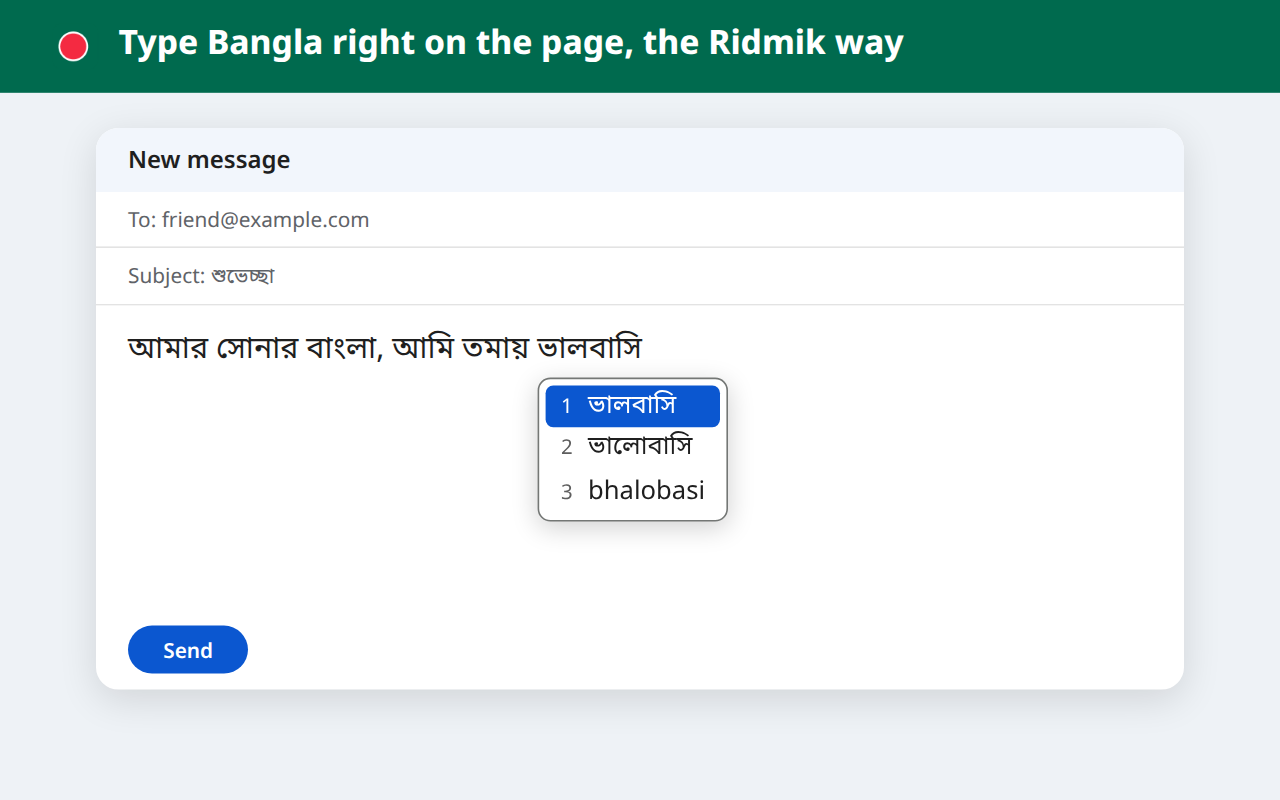
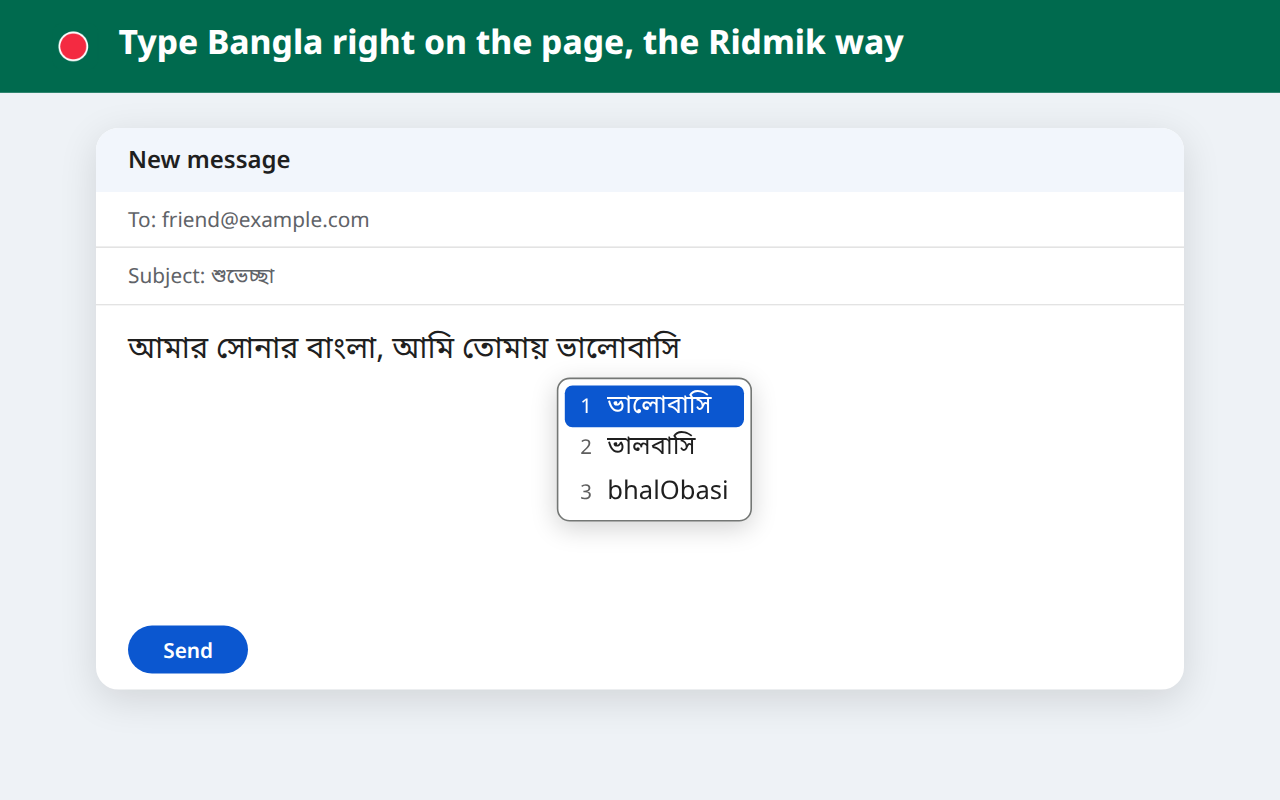
Fix misspelled Bangla in the typing screenshot and playground hint
তমায় ভালবাসি -> তোমায় ভালোবাসি (typed as tOmay bhalObasi)

Changed region(s): [[0.3438, 0.4062, 0.5938, 0.6562]]

diff --git a/site/index.html b/site/index.html
@@ -70,7 +70,7 @@
               <button type="button" id="toggle" class="toggle" aria-pressed="true" title="Ctrl+Shift+Space">বাংলা</button>
             </div>
             <label for="pad" class="sr">Playground: type phonetically to get Bangla</label>
-            <textarea id="pad" rows="5" spellcheck="false" autocomplete="off" placeholder="ami tomake bhalobashi"></textarea>
+            <textarea id="pad" rows="5" spellcheck="false" autocomplete="off" placeholder="ami tOmake bhalObasi"></textarea>
             <p class="play-foot">
               <span id="mode" role="status">Bangla typing is on</span>
               <span id="hint" class="hint">Try <kbd>korrmo</kbd>, <kbd>kormo</kbd>, then ↓ and Space</span>
@@ -129,7 +129,7 @@
           <div class="shots">
             <figure>
               <img src="/lekho/img/screenshot-1-typing.png" width="1280" height="800" loading="lazy"
-                alt="Typing Bangla in an email: the suggestion list shows ভালবাসি first, then ভালোবাসি and the English word" />
+                alt="Typing আমার সোনার বাংলা, আমি তোমায় ভালোবাসি in an email: the suggestion list shows ভালোবাসি first, then ভালবাসি and the English word" />
               <figcaption>Types in the page, with the suggestion under the word.</figcaption>
             </figure>
             <figure>

diff --git a/scripts/store-assets.ts b/scripts/store-assets.ts
@@ -145,9 +145,9 @@ async function main(): Promise<void> {
     await p1.goto(`${base}/compose1.html`);
     await enable(p1);
     await p1.locator('#t').click();
-    await p1.keyboard.type('amar sOnar bangla, ami tomay ');
-    await p1.keyboard.type('bhalobasi');
-    await waitForWord(p1, 'ভালোবাসি');
+    await p1.keyboard.type('amar sOnar bangla, ami tOmay ');
+    await p1.keyboard.type('bhalObasi');
+    await waitForWord(p1, 'ভালবাসি');
     await p1.waitForTimeout(300);
     await shoot(p1, 'screenshot-1-typing.png');
 
